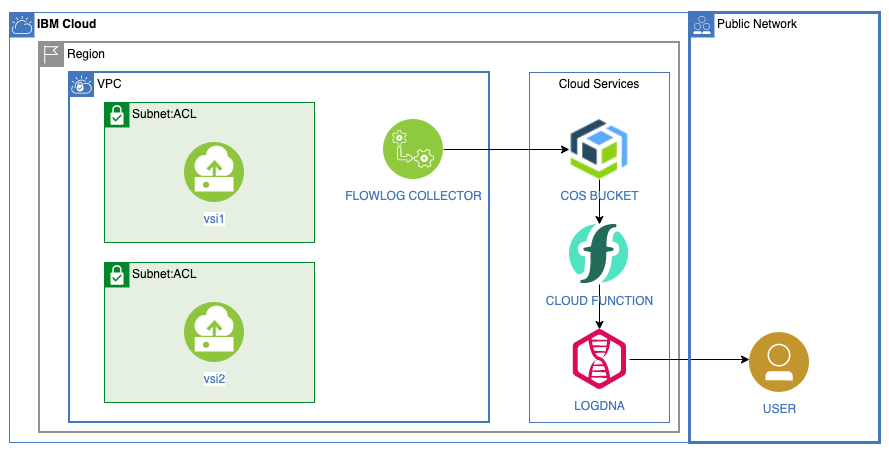
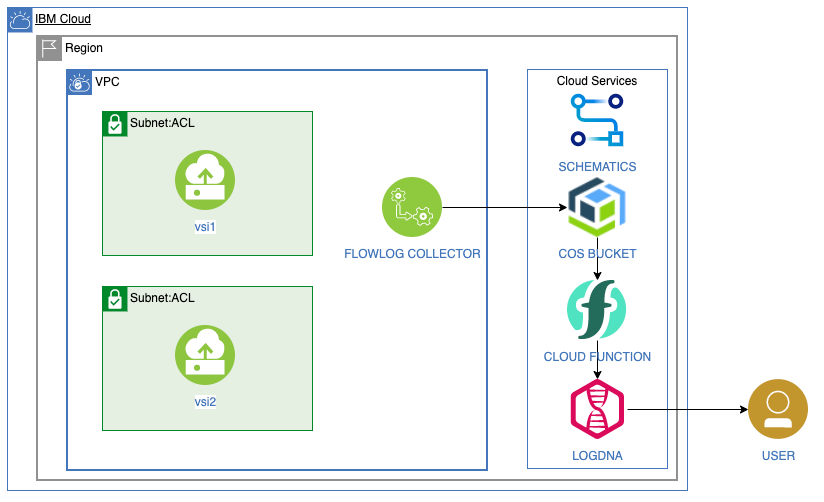
create-steps for all creation steps, r tf/

Changed region(s): [[0.0, 0.0, 1.0, 0.989]]

diff --git a/README.md b/README.md
@@ -18,20 +18,22 @@ This project shows how use a trigger function to read a flow log COS object and 
 > - to create service instances,
 > - to create Cloud Functions namespaces (you need to be an Administrator on the Functions service)
 > - to create vpc resources
+> - to create a schematics workspace
 
-1. To run the following scripts use the IBM cloud shell.  It has the pre-requisites already installed.
+1. To run the following scripts you can use the IBM cloud shell.  It has the pre-requisites already installed.
 Or use your own computer and make sure to install:
    * [IBM Cloud CLI](https://cloud.ibm.com/docs/cli?topic=cloud-cli-install-ibmcloud-cli)
    * Cloud Object Storage plugin. Install it with `ibmcloud plugin install cloud-object-storage`.
    * Cloud VPC infrastructure plugin. Install it with `ibmcloud plugin install vpc-infrastructure`.
    * Cloud Functions plugin. Install it with `ibmcloud plugin install cloud-functions`.
-   * [Terraform and the IBM Provider](https://cloud.ibm.com/docs/terraform?topic=terraform-getting-started)
+   * Schematics plugin. Install it with `ibmcloud plugin install cloud-functions`.
    * [jq](https://stedolan.github.io/jq/) command line utility
 
-1. Copy the configuration file and set the values to match your environment. At a minimum, set or review the values for `PREFIX`, `RESOURCE_GROUP_NAME`, `REGION`, `TF_VAR_ssh_key_name` and `TF_VAR_ibmcloud_api_key`
+1. Copy the configuration file and set the values to match your environment. At a minimum, set or review the values for `PREFIX`, `RESOURCE_GROUP_NAME`, `REGION` and `TF_VAR_ssh_key_name`.
 
    ```sh
    cp template.local.env local.env
+   edit local.env
    ```
 
 1. Load the values into the current shell.
@@ -57,15 +59,13 @@ Or use your own computer and make sure to install:
       * a storage bucket
       * a LogDNA service instance and a service key.
 
-   The previously defined `PREFIX` variable is used to define the names of these resources.
-
-1. Create the action and the trigger.  The python action requires modules that are not provided by the default Cloud Function environment.  It is required to [Package multiple Python files into a .zip file](https://cloud.ibm.com/docs/openwhisk?topic=openwhisk-prep#prep_python_pkg).  If you are using the cloud shell, great!  If not it requires a `pip install virtualenv` into a python3 environment to use the `virtualenv` command to create tne virtualenv directory to put in the zip.  The script runs this in docker, but you can run the `actions/virtualenv_init.sh` by hand on your computer to avoid using docker (if you do not mind installing virtualenv on your computer).
+1. Create the action and the trigger.  The python action requires python modules that are not provided by the default Cloud Function environment.  It is required to [Package multiple Python files into a .zip file](https://cloud.ibm.com/docs/openwhisk?topic=openwhisk-prep#prep_python_pkg).  If you are using the cloud shell, great!  If not it requires a `pip install virtualenv` into a python3 environment to use the `virtualenv` command to create tne virtualenv directory to put in the zip.  The script runs this in docker, but you can run the `actions/virtualenv_init.sh` by hand on your computer to avoid using docker (if you do not mind installing virtualenv on your computer).
 
    ```sh
    ./020-create-functions.sh
    ```
 
-1. Create a VPC with two instances and a Flow Log collector for the vpc.  The vsi1 is public.  The vsi2 is private and only accesible from vsi1.  For a full explination see TODO BLOG POST
+1. Create a VPC with two instances in the vpc.  The vsi1 is public.  The vsi2 is private and only accesible from vsi1.  For a full explination see TODO BLOG POST inside IBM cloud see https://ibm.ent.box.com/notes/532826463321  Create the flow log collector.
 
    ```sh
    ./030-create-vpc.sh
